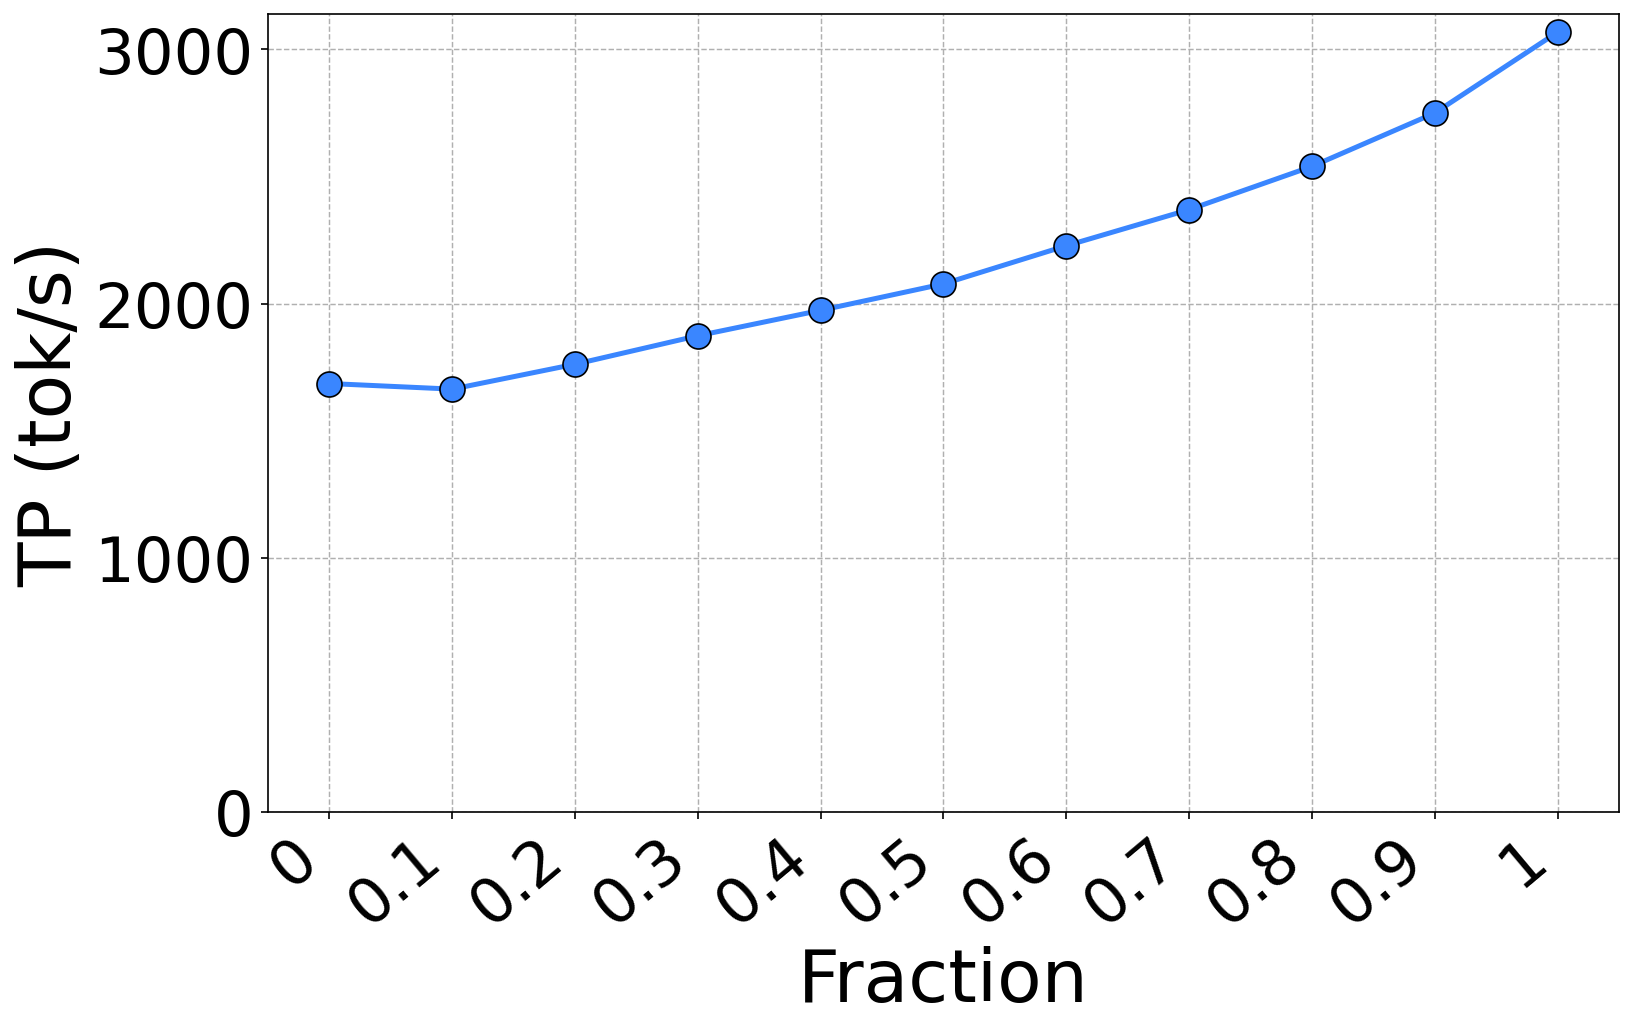
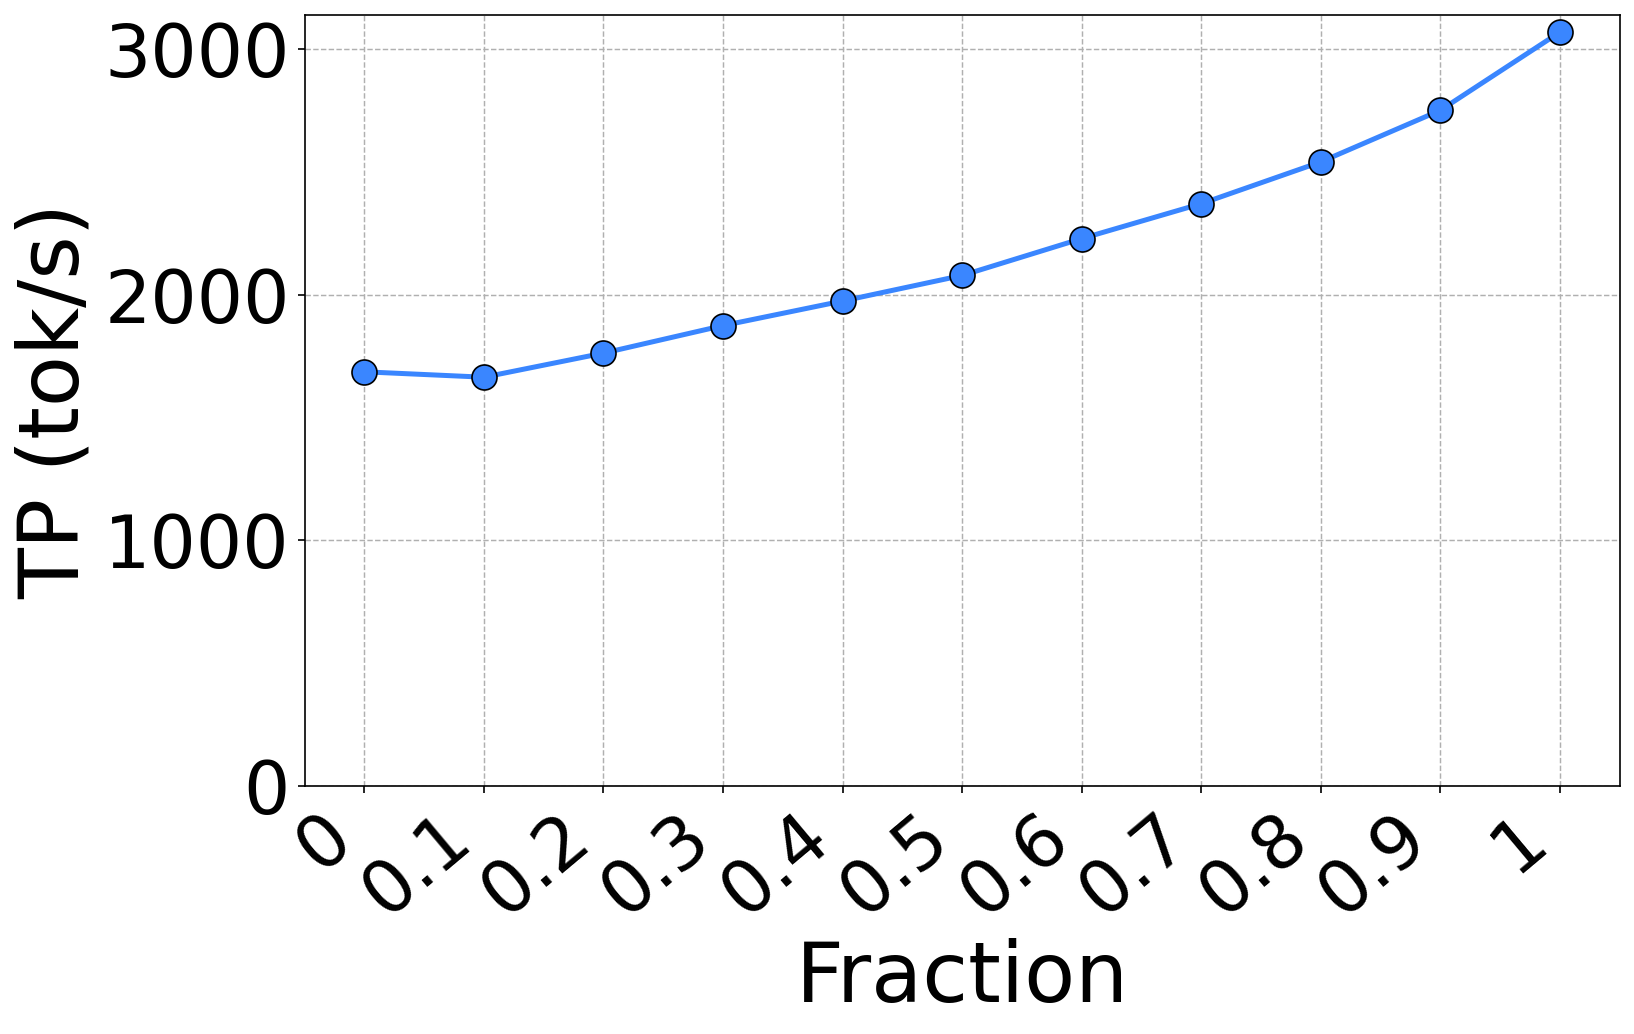
frac

diff --git a/code/vllm/fractional_sharing_logs/plot.py b/code/vllm/fractional_sharing_logs/plot.py
@@ -160,9 +160,9 @@ def plot_single(
     ax.plot(xs, ys, marker=MARKER, linestyle="-", linewidth=LINEWIDTH,
             markersize=MARKERSIZE, markeredgecolor="black",
             markeredgewidth=0.8, color=color)
-    ax.set_xlabel("Fraction", fontsize=35)
-    ax.set_ylabel(ylabel, fontsize=35)
-    ax.tick_params(axis="both", labelsize=30)
+    ax.set_xlabel("Fraction", fontsize=40)
+    ax.set_ylabel(ylabel, fontsize=40)
+    ax.tick_params(axis="both", labelsize=35)
     ax.set_xticks(xs)
     ax.set_xticklabels([fmt(v) for v in frac_labels], rotation=40, ha="right")
     ax.yaxis.set_major_formatter(ticker.FormatStrFormatter("%.0f"))
